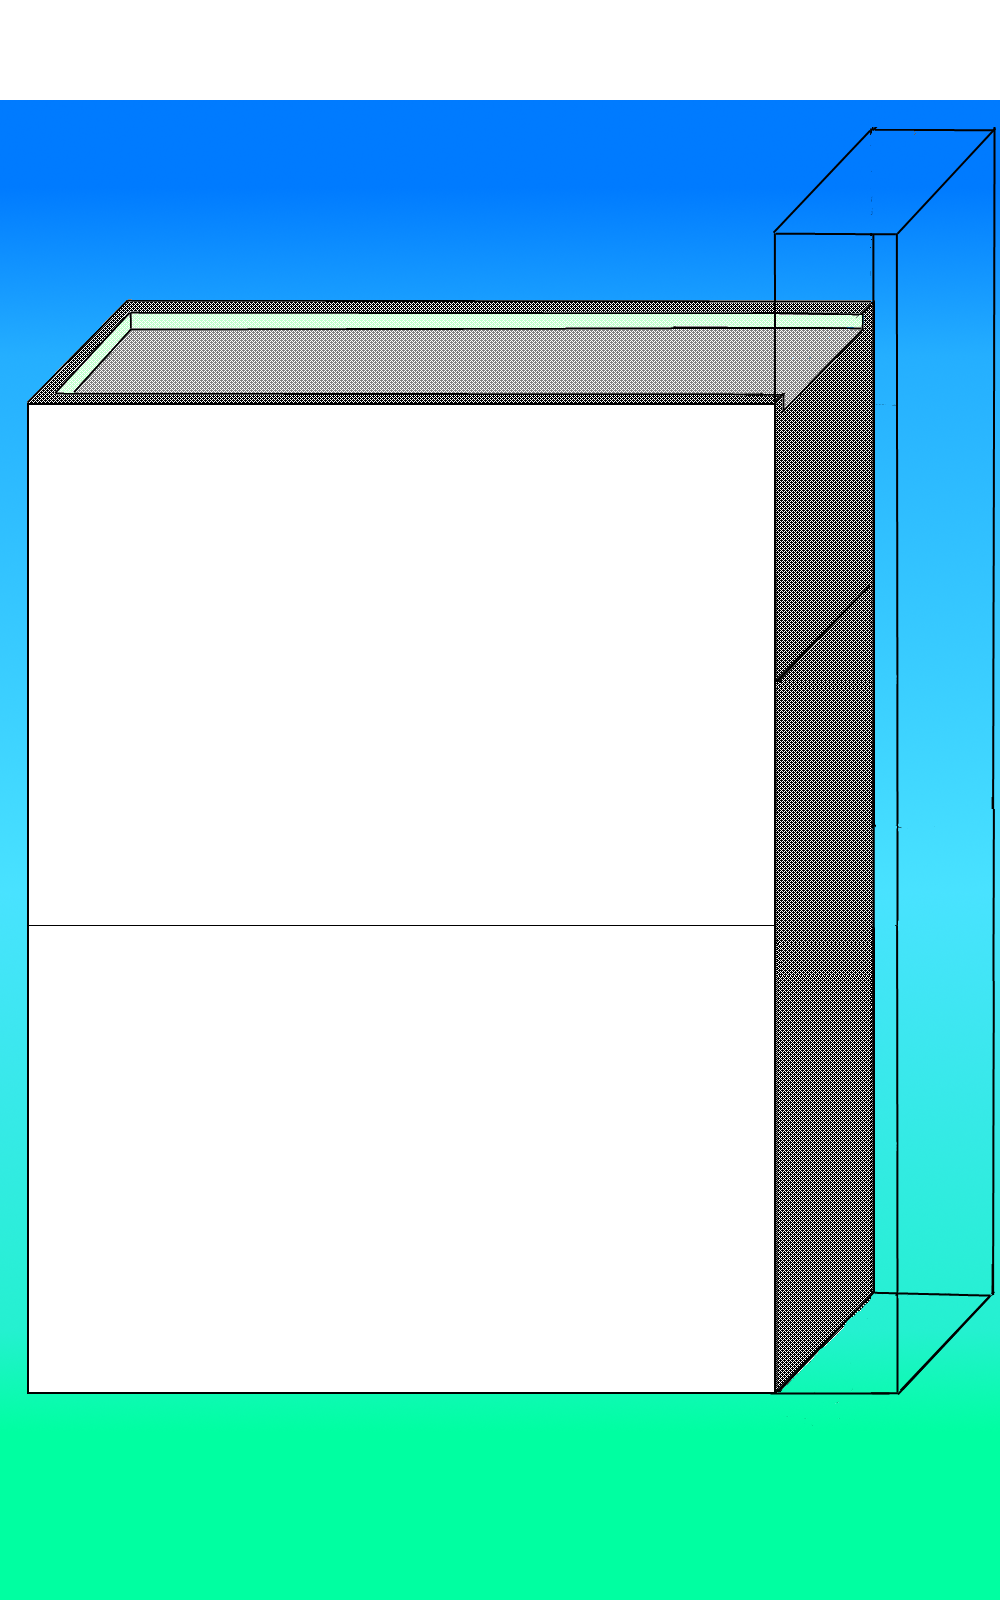
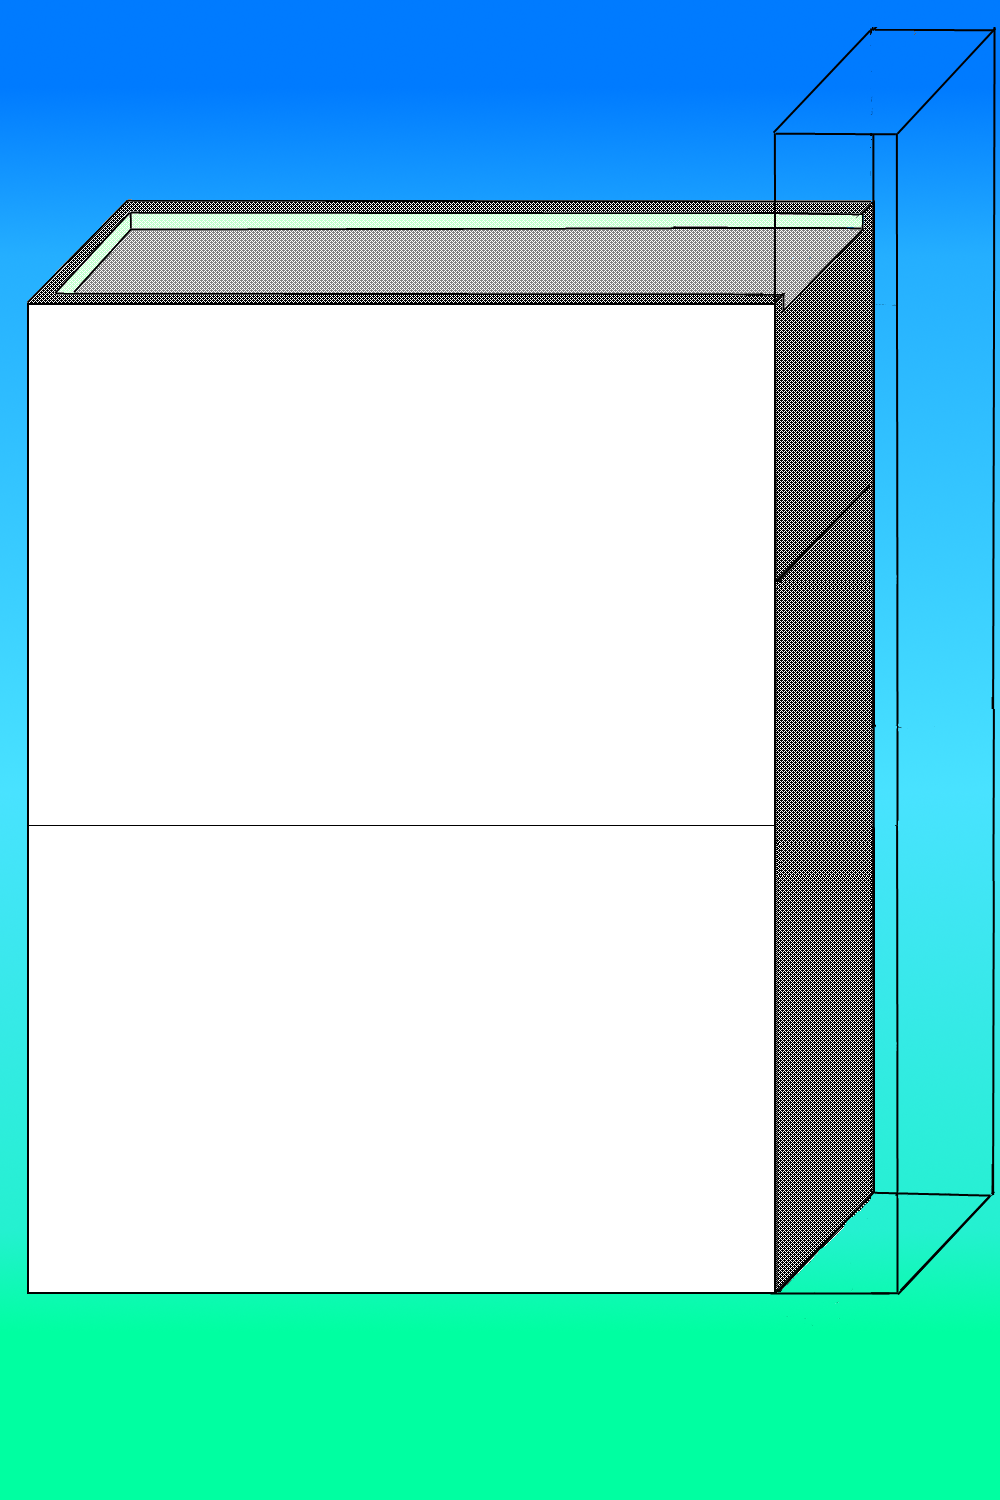
unopened element

Changed region(s): [[0.0, 0.0, 1.0, 0.8893], [0.899, 0.7667, 1.0, 0.8587]]

diff --git a/webapp/Scripts/elements.js b/webapp/Scripts/elements.js
@@ -1814,11 +1814,51 @@ function DrawUniqueCustomers(c,x,y)
 		var canvas = document.getElementById(c);
 		var context = canvas.getContext("2d");
 		img_unopened = new Image();
+		img_scissor = new Image();
+		img_logo1 = new Image();
+		img_logo2 = new Image();
+		img_logo3 = new Image();
+		img_logo4 = new Image();
+		img_hand = new Image();
 		img_unopened.src = 'images/lead_open-envelope.png';
+		img_scissor.src = 'images/lead_scissor.png';
+		img_logo1.src = 'images/lead_dealix.png';
+		img_logo2.src = 'images/lead_vw.png';
+		img_logo3.src = 'images/lead_kelley.png';
+		img_logo4.src = 'images/lead_edmunds.png';
+		img_hand.src = 'images/lead_hand.png';
 		
 		
 		img_unopened.onload = function()
 		{
-			context.drawImage(img_unopened, x, y , img_unopened.width, img_unopened.height);
+			context.drawImage(img_unopened, x, y , img_unopened.width/1.7, img_unopened.height/1.7);
+			img_scissor.onload = function()
+			{
+				context.drawImage(img_scissor, x+130, y-50, img_scissor.width/1.7, img_scissor.height/1.7);
+				img_logo1.onload = function()
+				{
+					context.drawImage(img_logo1, x+210, y+170, img_logo1.width/1.7, img_logo1.height/1.7);
+					img_logo2.onload = function()
+					{	
+						context.drawImage(img_logo2, x+110, y+110, img_logo2.width/2, img_logo2.height/2);
+						img_logo3.onload = function()
+						{
+							context.drawImage(img_logo3, x+40, y+180, img_logo3.width/5, img_logo3.height/5);
+							img_logo4.onload = function()
+							{
+								context.drawImage(img_logo4, x+120, y+220, img_logo4.width/1.7, img_logo4.height/1.7);
+								img_hand.onload = function()
+								{
+									context.drawImage(img_hand, x+240, y-110, img_hand.width/2.7, img_hand.height/2.7);
+								}
+							}
+						}
+					}
+				}
+			}
 		}	
+		context.font = "32pt Calibri";
+		context.fillStyle = "#000000";
+		context.fillText("Unopened Leads", x+430, y+130);
+		context.fillTest(d, x+480, y+160);
 	}
